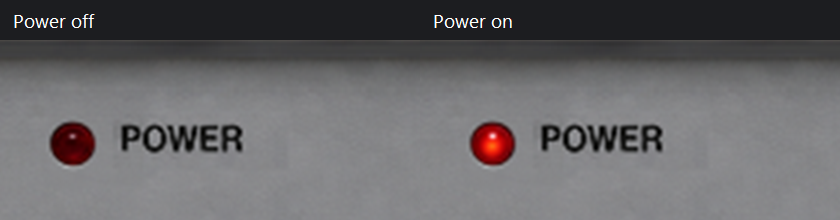
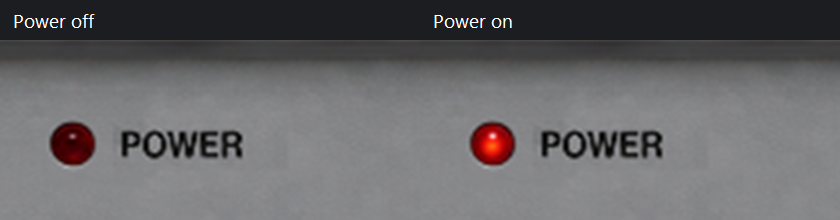
Smooth zoom and refine front-panel artwork
Improve animated zoom rendering with smoother transitions, cached CRT frames, and responsive worker-frame updates. Adjust corner controls and move the POWER lettering down two pixels.

Changed region(s): [[0.1238, 0.5455, 0.3095, 0.7364], [0.619, 0.5455, 0.8048, 0.7364]]

diff --git a/assets/front/leds/README.md b/assets/front/leds/README.md
@@ -14,7 +14,8 @@ The current power lens is scaled from the improved front artwork to match the
 smaller indicator and position in the supplied hardware photograph. Its center
 is (223.5, 988.5), or (15.5, 28.5) inside the unchanged 48 x 48 patch at
 (208, 960). The visible lens and mounting rim are about 15 pixels across.
-The original POWER lettering is moved left without changing its font or size.
+The original POWER lettering is moved left and two pixels down without changing
+its font or size.
 `power-off-master.png` supplies a deep ruby interior;
 `power-on-master.png` supplies a restrained warm luminous core. Both overlays
 affect only the lens interior, retaining the front master's scaled rim and
